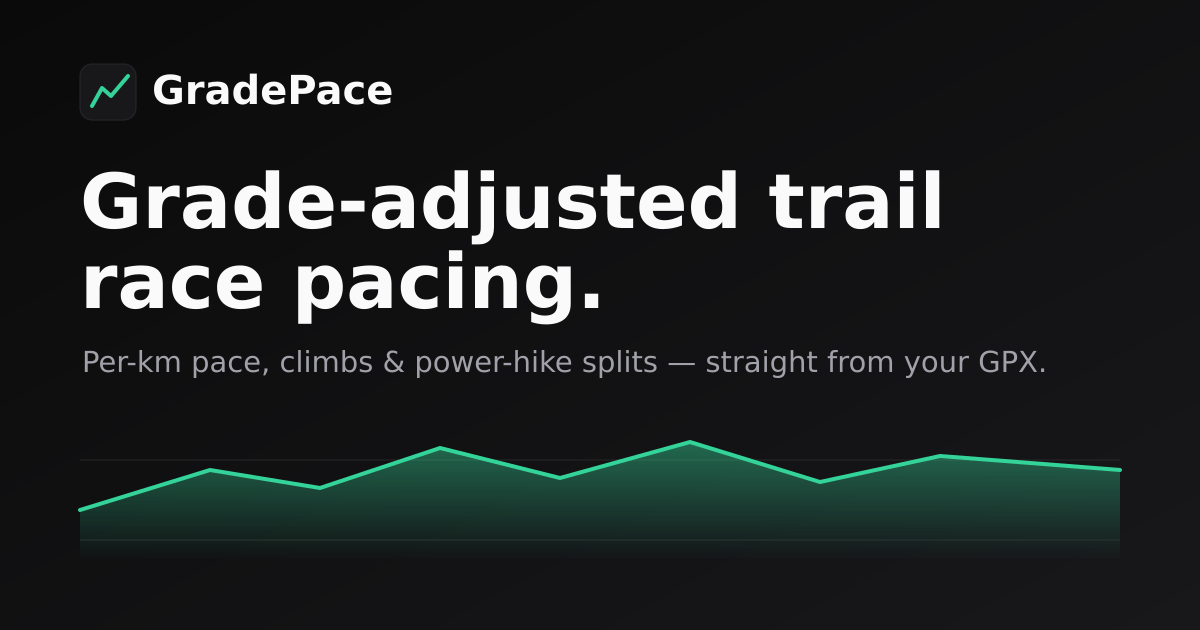
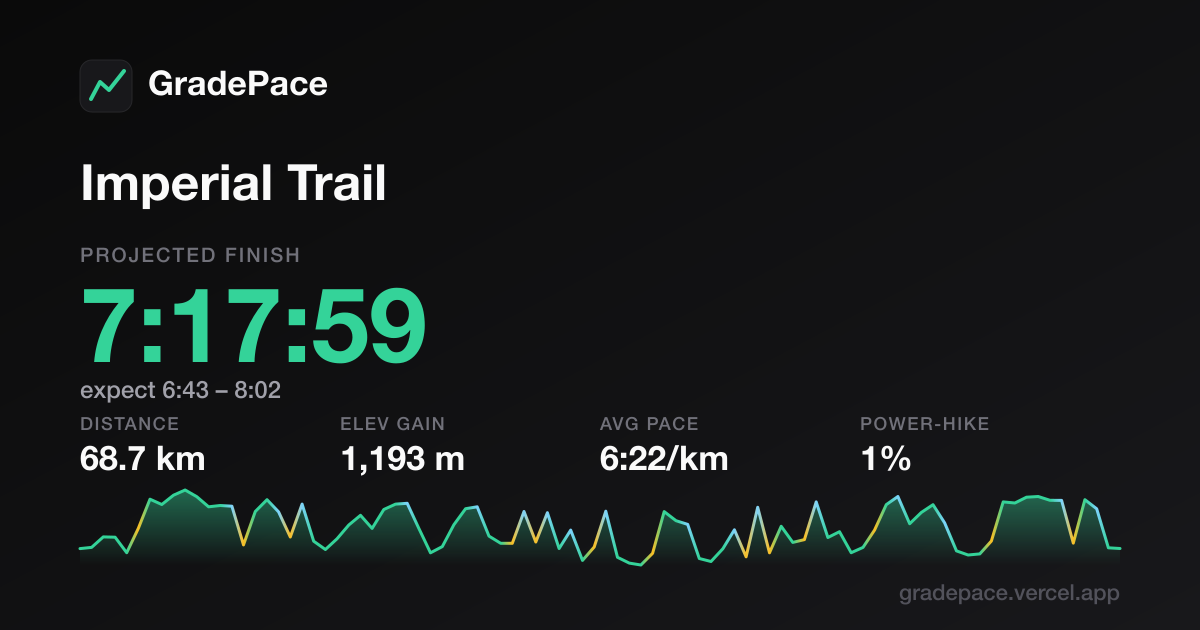
Shareable plan links via URL hash; og.png generated from the live share card

diff --git a/src/App.tsx b/src/App.tsx
@@ -136,6 +136,39 @@ const KM_PER_MI = 1.609344;
 const FT_PER_M = 3.28084;
 const MILE_M = 1609.344;
 
+// Plan settings encoded in the URL hash (#p=6:00&vam=750&gate=18&tf=1.08&u=metric)
+// so a plan can travel as a LINK, not just a PNG. Only the effort inputs are
+// encoded: a link can't carry an uploaded GPX file, and the calibrated flag
+// deliberately doesn't travel — the recipient didn't calibrate, so they get
+// the honest wide band even when the sender's factor was measured.
+type HashPlan = {
+  pace?: string;
+  vam?: number;
+  gate?: number;
+  tf?: number;
+  units?: Units;
+};
+
+function readPlanFromHash(): HashPlan {
+  try {
+    const p = new URLSearchParams(window.location.hash.slice(1));
+    const plan: HashPlan = {};
+    const pace = p.get("p");
+    if (pace && !Number.isNaN(parsePace(pace))) plan.pace = pace;
+    const vam = Number(p.get("vam"));
+    if (vam >= 300 && vam <= 1200) plan.vam = Math.round(vam);
+    const gate = Number(p.get("gate"));
+    if (gate >= 5 && gate <= 40) plan.gate = Math.round(gate);
+    const tf = Number(p.get("tf"));
+    if (tf >= 0.8 && tf <= 1.6) plan.tf = tf;
+    const u = p.get("u");
+    if (u === "metric" || u === "imperial") plan.units = u;
+    return plan;
+  } catch {
+    return {}; // malformed hash → plain defaults, never a crash
+  }
+}
+
 function initialUnits(): Units {
   // Storage can be absent or throw (private browsing, test envs) — the
   // preference is a nicety, never worth crashing over.
@@ -223,14 +256,16 @@ function SliderField({
 function GpxUpload() {
   const [track, setTrack] = useState<Track | null>(null);
   const [error, setError] = useState<string | null>(null);
-  const [units, setUnits] = useState<Units>(initialUnits);
+  // A shared-plan link overrides the defaults for every effort input below.
+  const [hashPlan] = useState(readPlanFromHash);
+  const [units, setUnits] = useState<Units>(() => hashPlan.units ?? initialUnits());
   // A sensible easy default in the active unit (6:00/km ≈ 9:39/mi).
   const [paceText, setPaceText] = useState(
-    units === "imperial" ? "9:40" : "6:00",
+    hashPlan.pace ?? (units === "imperial" ? "9:40" : "6:00"),
   );
-  const [vam, setVam] = useState(750);
-  const [hikeAbovePct, setHikeAbovePct] = useState(18);
-  const [terrainFactor, setTerrainFactor] = useState(1.0);
+  const [vam, setVam] = useState(hashPlan.vam ?? 750);
+  const [hikeAbovePct, setHikeAbovePct] = useState(hashPlan.gate ?? 18);
+  const [terrainFactor, setTerrainFactor] = useState(hashPlan.tf ?? 1.0);
   // Course name shown on the shareable image; prefilled on load, editable.
   const [title, setTitle] = useState("");
   const [sharing, setSharing] = useState(false);
@@ -238,6 +273,33 @@ function GpxUpload() {
   // The full table is ~70 rows for a 70k — collapsed by default so the page
   // ends near the stats instead of scrolling forever.
   const [showAllSplits, setShowAllSplits] = useState(false);
+  const [linkCopied, setLinkCopied] = useState(false);
+
+  // Share the current effort settings as a URL (see readPlanFromHash for
+  // what travels and what deliberately doesn't).
+  async function handleCopyLink() {
+    const params = new URLSearchParams({
+      p: paceText,
+      vam: String(vam),
+      gate: String(hikeAbovePct),
+      tf: terrainFactor.toFixed(2),
+      u: units,
+    });
+    const url = `${window.location.origin}${window.location.pathname}#${params.toString()}`;
+    try {
+      await navigator.clipboard.writeText(url);
+      setLinkCopied(true);
+      window.setTimeout(() => setLinkCopied(false), 2000);
+      trackEvent("copy-link");
+    } catch {
+      // Clipboard can be blocked (permissions, non-secure context). Put the
+      // hash in the address bar so the user can copy it from there.
+      window.location.hash = params.toString();
+      setShareError(
+        "Couldn't copy automatically — the link is in your address bar now.",
+      );
+    }
+  }
   // True while the dashboard shows the bundled course (auto-loaded or clicked),
   // so we can badge it as an example rather than let it pass for the visitor's
   // own race. Cleared the moment a user upload succeeds.
@@ -252,9 +314,11 @@ function GpxUpload() {
   // typo) the plan keeps using the last valid pace instead of silently
   // resetting, and the field shows an inline invalid state. The last valid
   // value is state, updated in onChange — not a ref written during render.
-  const [lastValidPaceSec, setLastValidPaceSec] = useState(
-    units === "imperial" ? 580 : 360,
-  );
+  const [lastValidPaceSec, setLastValidPaceSec] = useState(() => {
+    const fromHash = parsePace(hashPlan.pace ?? "");
+    if (!Number.isNaN(fromHash)) return fromHash;
+    return units === "imperial" ? 580 : 360;
+  });
   const paceSec = parsePace(paceText);
   const paceValid = !Number.isNaN(paceSec);
   const effectivePaceSec = paceValid ? paceSec : lastValidPaceSec;
@@ -866,6 +930,13 @@ function GpxUpload() {
                 className="rounded-md bg-emerald-600 px-4 py-2 text-sm font-medium text-white hover:bg-emerald-500 disabled:cursor-not-allowed disabled:opacity-60"
               >
                 {sharing ? "Creating image…" : "Share image"}
+              </button>
+              <button
+                type="button"
+                onClick={handleCopyLink}
+                className="rounded-md border border-zinc-700 bg-zinc-800 px-4 py-2 text-sm font-medium text-zinc-200 hover:border-emerald-500 hover:text-white"
+              >
+                {linkCopied ? "Copied ✓" : "Copy link"}
               </button>
             </div>
             {shareError && (

diff --git a/src/App.test.tsx b/src/App.test.tsx
@@ -66,4 +66,27 @@ describe("App smoke test", () => {
       0,
     );
   });
+
+  it("restores a shared plan from the URL hash", async () => {
+    window.location.hash = "#p=5:00&vam=900&gate=25&tf=1.10&u=metric";
+    try {
+      const container = document.createElement("div");
+      document.body.appendChild(container);
+      await act(async () => {
+        createRoot(container).render(<App />);
+      });
+      await flush();
+
+      const text = container.textContent ?? "";
+      // Advanced-settings content is in the DOM even while collapsed.
+      expect(text).toContain("×1.10");
+      expect(text).toContain("900 m/h");
+      expect(text).toContain("25%");
+      const paceInput =
+        container.querySelector<HTMLInputElement>("input[aria-invalid]");
+      expect(paceInput?.value).toBe("5:00");
+    } finally {
+      window.location.hash = "";
+    }
+  });
 });

diff --git a/src/lib/shareCard.ts b/src/lib/shareCard.ts
@@ -4,7 +4,8 @@
 // compiles to oklch() colors, which the DOM-screenshot libraries
 // (html2canvas / html-to-image) choke on. This card uses only explicit hex
 // colors and a system-font stack, so it rasterizes cleanly in any browser
-// (see src/lib/rasterize.ts). The visual language mirrors public/og.svg.
+// (see src/lib/rasterize.ts). public/og.png is generated FROM this card
+// (scripts/gen-og.mjs), so the social preview can't drift from the product.
 
 import { fmtClock, fmtClockShort, fmtPace } from "./format";
 import { gradeColor } from "./gradeColor";

diff --git a/STATUS.md b/STATUS.md
@@ -283,6 +283,20 @@
   3. Fourth stat card: "Power-hike — X mi/km · N% of the course walked."
      Share card takes the gate too (`hikeAboveGrade`).
 
+- **Shareable plan links.** "Copy link" (next to Share image) encodes the
+  effort inputs in the URL hash (`#p=6:00&vam=750&gate=18&tf=1.08&u=metric`);
+  on load the hash overrides defaults (validated + clamped; malformed → plain
+  defaults). Deliberate limits: an uploaded GPX can't travel by link, and the
+  `calibrated` flag never travels — the recipient didn't calibrate, so they
+  get the honest wide band even if the sender's factor was measured.
+  Clipboard-blocked fallback drops the hash into the address bar. Smoke test
+  locks the restore path. `copy-link` analytics event.
+- **og.png now generated FROM the product.** `scripts/gen-og.mjs` (run with
+  npx tsx) renders the real share card from the bundled example course
+  through the real engine pipeline — colored profile, honest range,
+  power-hike stat — so the social preview can't drift from the app.
+  `public/og.svg` (the old hand-made design) deleted.
+
 ## Next
 - **Optional elevation polish** (only if it earns its keep): expose
   `D_PLUS_THRESHOLD_M` / `SMOOTH_WINDOW_M` as UI controls; or try a Savitzky-Golay